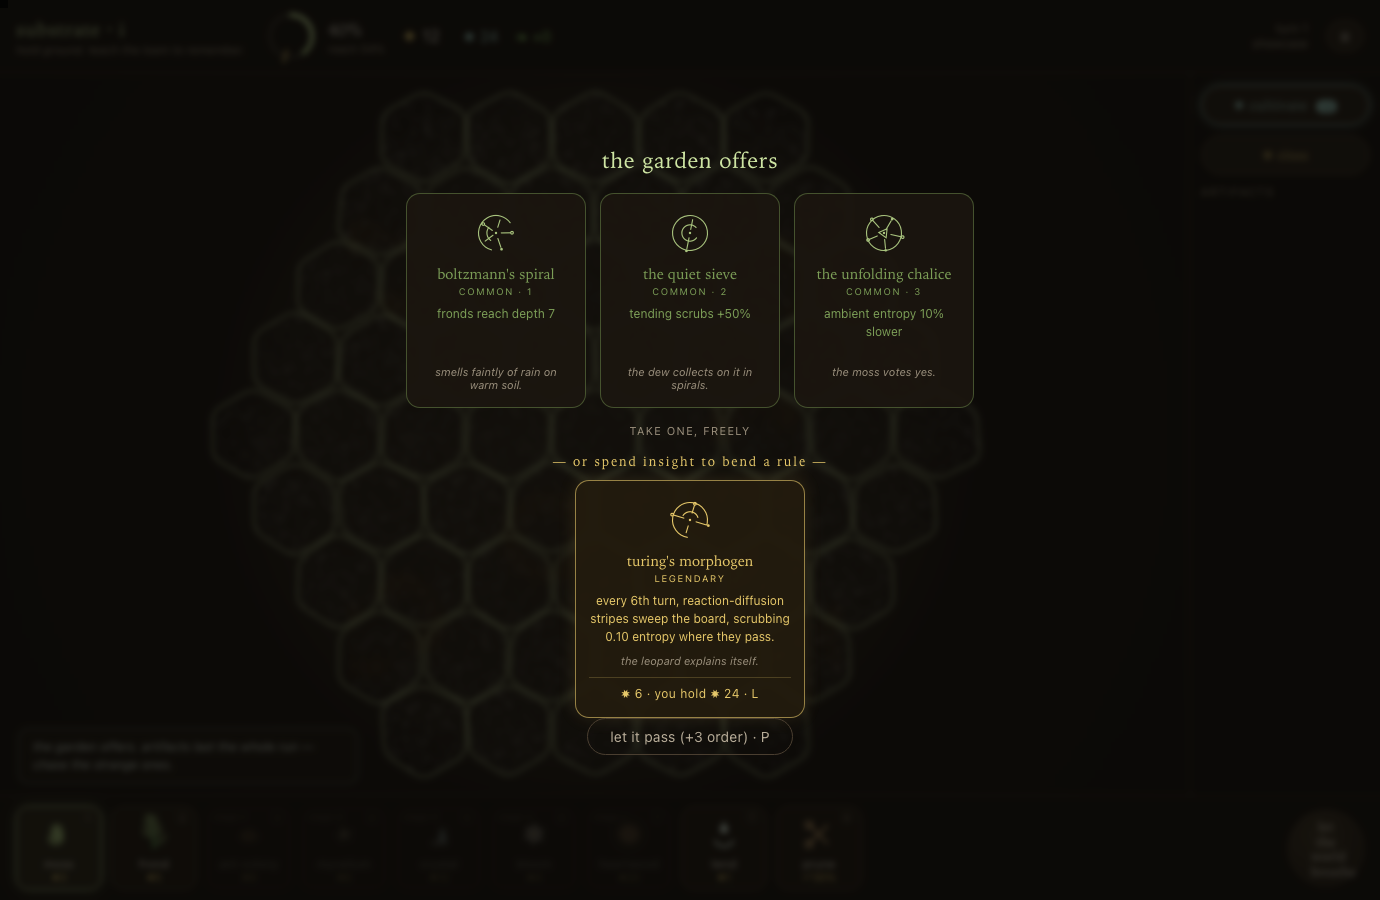
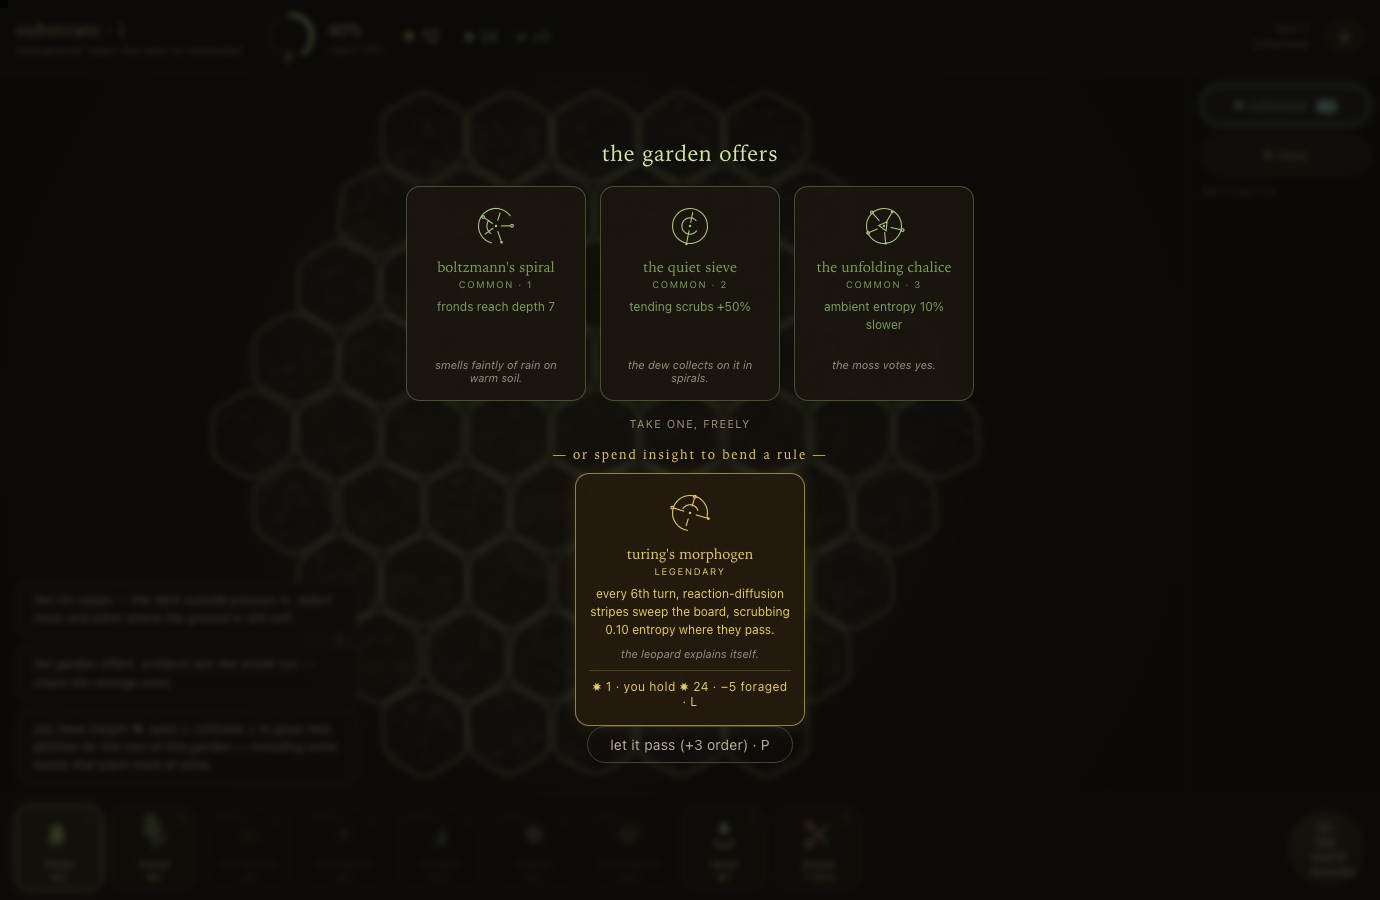
moss seeks the frontier; foragers dig relic fragments
Two backlog fixes before the meta-game mode.

#1 moss propagation: _mossSpread seeded the *calmest* empty neighbour, so
moss crawled back onto squares you'd just pruned. now it climbs toward the
frontier — the wildest ground it can still survive — where its sap is made.
A minor sort flip (ascending → descending entropy) with mega ripples: moss
becomes a frontier-advancing organism, more cells end up *producing*, and
expansion finally points where you'd expect. (the edge-of-chaos thesis,
made literal.)

#4 ant finds, reconciled with the shop: foragers no longer dig up FREE
legendaries (that undercut the paid draft). instead they surface either a
common/uncommon relic for the rail, or — the special, forager-only prize —
a "relic fragment" that discounts your next legendary (4-8 insight, stacking,
consumed on purchase). the disorder they eat becomes a key to a rule-bender;
the ant-swarm build now has its own road to legendaries. legendCost() applies
the discount live; legendDiscount serialized.

verified: harness ALL PASS / 24-24; 0 legendaries in 500 ant finds; discount
reduces+consumes correctly; offer renders the −N foraged line (shots/offer.png).

diff --git a/loophole/js/core.js b/loophole/js/core.js
@@ -114,6 +114,7 @@
       this.pendingOffer = null;
       this.pendingLegend = null;   /* a legendary you may claim by spending insight */
       this.legendsBought = 0;      /* each purchase escalates the next legendary's price */
+      this.legendDiscount = 0;     /* relic fragments foragers dig up, off the next legendary */
       this.firedOcc = {};
       this.stormI = 0;
       this.stormQueue = [];
@@ -552,15 +553,16 @@
       const sched = [6, 12, 20, 30, 45];
       const n = this.legendsBought;
       const base = n < sched.length ? sched[n] : sched[sched.length - 1] + (n - sched.length + 1) * 18;
-      return Math.max(1, Math.round(base * this.mod('legendCostMul', 1)));
+      return Math.max(1, Math.round(base * this.mod('legendCostMul', 1)) - (this.legendDiscount || 0));
     }
     takeLegend() {
       if (!this.pendingLegend) return { ok: false, why: 'no legendary offered' };
-      const cost = this.pendingLegend.cost;
+      const cost = this.legendCost(); /* live — a fragment foraged while this offer waits still counts */
       if (this.insight < cost) return { ok: false, why: 'not enough insight ✸' };
       this.insight -= cost;
       const a = this.addArtifact(this.pendingLegend.spec);
       this.legendsBought++;
+      this.legendDiscount = 0; /* the fragments fuse into this one relic */
       this.pendingOffer = null;
       this.pendingLegend = null;
       return { ok: true, artifact: a, cost };
@@ -785,13 +787,19 @@
         if (p.food >= 1 && p.pop < popMax) { p.pop = Math.min(p.pop + 2, popMax); p.food -= 1; }
         if (eaten < p.pop * 0.012) p.pop -= 1;
         if (eaten > 0) ev.push({ t: 'eat', from: HEX.key(c.q, c.r), targets: p.lastTargets });
-        /* foragers unearth strange things */
+        /* foragers unearth strange things — a relic for the rail, or a fragment that
+           discounts the next legendary. the disorder they eat becomes a key to a rule. */
         if (eaten > 0.25 && this.finds < 2 &&
             this.rng.chance(0.035 * this.mod('antFindChance', 1))) {
           this.finds++;
-          const spec = this.C.rollAntFind(this);
-          const a = this.addArtifact(spec);
-          ev.push({ t: 'find', name: a.name, k: HEX.key(c.q, c.r) });
+          if (this.rng.chance(0.45)) {
+            const frag = 4 + this.rng.i(5); /* 4-8 insight off the next legendary */
+            this.legendDiscount += frag;
+            ev.push({ t: 'find', kind: 'fragment', amount: frag, k: HEX.key(c.q, c.r) });
+          } else {
+            const a = this.addArtifact(this.C.rollAntFind(this));
+            ev.push({ t: 'find', name: a.name, k: HEX.key(c.q, c.r) });
+          }
           this._occasion('find1', ev);
         }
       }
@@ -914,7 +922,10 @@
         if (cc && !cc.pat && cc.e <= 0.6) opts.push(cc);
       }
       if (!opts.length) return false;
-      opts.sort((a, b) => a.e - b.e);
+      /* moss climbs toward the frontier — the wildest ground it can still survive — not back
+         into the calm interior. (it used to seed the calmest neighbour, so it crawled onto
+         cells you'd just pruned; now it advances on the gradient, where its sap is made.) */
+      opts.sort((a, b) => b.e - a.e);
       const tgt = opts[0];
       tgt.pat = this._mkPat('moss');
       ev.push({ t: 'spread', from: HEX.key(c.q, c.r), to: HEX.key(tgt.q, tgt.r) });
@@ -1296,7 +1307,7 @@
       this._occasion('stage' + this.stage, ev);
       const offer = this.C.rollOffer(this);
       this.pendingOffer = offer.cards;
-      this.pendingLegend = offer.legend ? { spec: offer.legend, cost: this.legendCost() } : null;
+      this.pendingLegend = offer.legend ? { spec: offer.legend } : null; /* cost computed live */
       ev.push({ t: 'offer', specs: this.pendingOffer, legend: this.pendingLegend });
       this.emit('stageUp', { stage: this.stage }, ev);
       this._recompute();
@@ -1400,6 +1411,7 @@
         pendingOffer: this.pendingOffer,
         pendingLegend: this.pendingLegend,
         legendsBought: this.legendsBought,
+        legendDiscount: this.legendDiscount,
         stats: this.stats,
         series: this.series,
         cells,
@@ -1449,6 +1461,7 @@
       g.pendingOffer = o.pendingOffer || null;
       g.pendingLegend = o.pendingLegend || null;
       g.legendsBought = o.legendsBought || 0;
+      g.legendDiscount = o.legendDiscount || 0;
       g.stats = o.stats;
       g.series = o.series || [];
       for (const cd of o.cells) {

diff --git a/loophole/js/ui.js b/loophole/js/ui.js
@@ -328,7 +328,9 @@
       };
       if (legend) {
         const a = C().buildArtifact(legend.spec);
-        const afford = game.insight >= legend.cost;
+        const cost = game.legendCost();
+        const afford = game.insight >= cost;
+        const disc = game.legendDiscount || 0;
         box.appendChild(el('div', 'offerhead leg', '— or spend insight to bend a rule —'));
         const card = el('div', 'artcard r-legendary legcard' + (afford ? '' : ' cant'));
         const sig = R.sigilCanvas(a.sigilSeed, 46, 'legendary');
@@ -339,7 +341,7 @@
         card.appendChild(el('div', 'artdesc', a.desc));
         card.appendChild(el('div', 'artflavor', a.flavor));
         card.appendChild(el('div', 'legprice' + (afford ? '' : ' short'),
-          `✸ ${legend.cost}  ·  you hold ✸ ${game.insight}` + (afford ? '  ·  L' : ' — not enough')));
+          `✸ ${cost}  ·  you hold ✸ ${game.insight}` + (disc ? `  ·  −${disc} foraged` : '') + (afford ? '  ·  L' : ' — not enough')));
         card.onclick = claimLegend;
         box.appendChild(card);
       }
@@ -685,8 +687,14 @@
         case 'cascade': if (e.n >= 2) { AU.cascade(e.n); if (e.n >= 4) { toast(e.n + ' blossoms in one breath', 'good'); music('cascade'); surfaceQuote(); } } break;
         case 'pulse': AU.pulse(); break;
         case 'find':
-          toast('the foragers unearth « ' + e.name + ' » — a relic. it waits in your rail (◈), ready when you need it.', 'good', 7000);
-          AU.take(); buildRail(); flashRail(); meta.codex.push({ n: e.name, r: 'found' }); break;
+          if (e.kind === 'fragment') {
+            toast('the foragers break into a buried hollow — a <b>relic fragment</b> ✸. your next legendary costs <b>' + e.amount + ' less</b> insight.', 'good', 7000);
+            AU.take(); updateHUD();
+          } else {
+            toast('the foragers unearth « ' + e.name + ' » — a relic. it waits in your rail (◈), ready when you need it.', 'good', 7000);
+            AU.take(); buildRail(); flashRail(); meta.codex.push({ n: e.name, r: 'found' });
+          }
+          break;
         case 'dissolveWarn': toast('the garden thins — coherence below 22% (' + e.streak + '/3)', 'warn', 5200); break;
         case 'dissolved': onDissolved(); break;
         case 'saved': toast('« ' + e.via + ' » intercedes. the garden holds.', 'good', 6000); buildRail(); break;
@@ -1322,9 +1330,10 @@
     overlayQueue = []; closeOverlay();
     if (kind === 'offer') {
       game.insight = 24; /* enough to show the legendary as affordable */
+      game.legendDiscount = 5; /* show the foraged-fragment discount line */
       const o = C().rollOffer(game);
       game.pendingOffer = o.cards;
-      game.pendingLegend = o.legend ? { spec: o.legend, cost: game.legendCost() } : null;
+      game.pendingLegend = o.legend ? { spec: o.legend } : null;
       pushOverlay(offerOverlay(game.pendingOffer, game.pendingLegend));
     }
     if (kind === 'echo') pushOverlay(echoOverlay(7));

diff --git a/loophole/js/content.js b/loophole/js/content.js
@@ -669,9 +669,9 @@
   };
 
   C.rollAntFind = function (g) {
-    const roll = g.rng.f();
-    if (roll < 0.25) return rollLegend(g);
-    return rollProc(g, roll < 0.6 ? 2 : 1);
+    /* commons & uncommons only — legendaries are bought in the draft, not dug up free.
+       (foragers instead surface relic fragments that discount the next legendary.) */
+    return rollProc(g, g.rng.f() < 0.45 ? 2 : 1);
   };
 
   /* pretty seeds for new runs */
